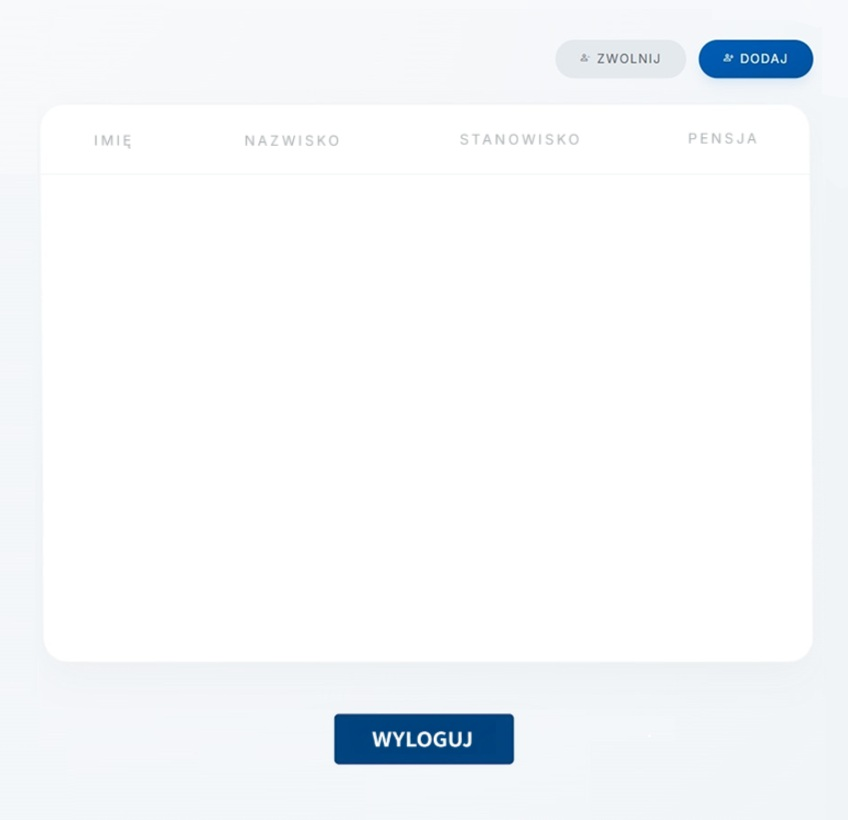
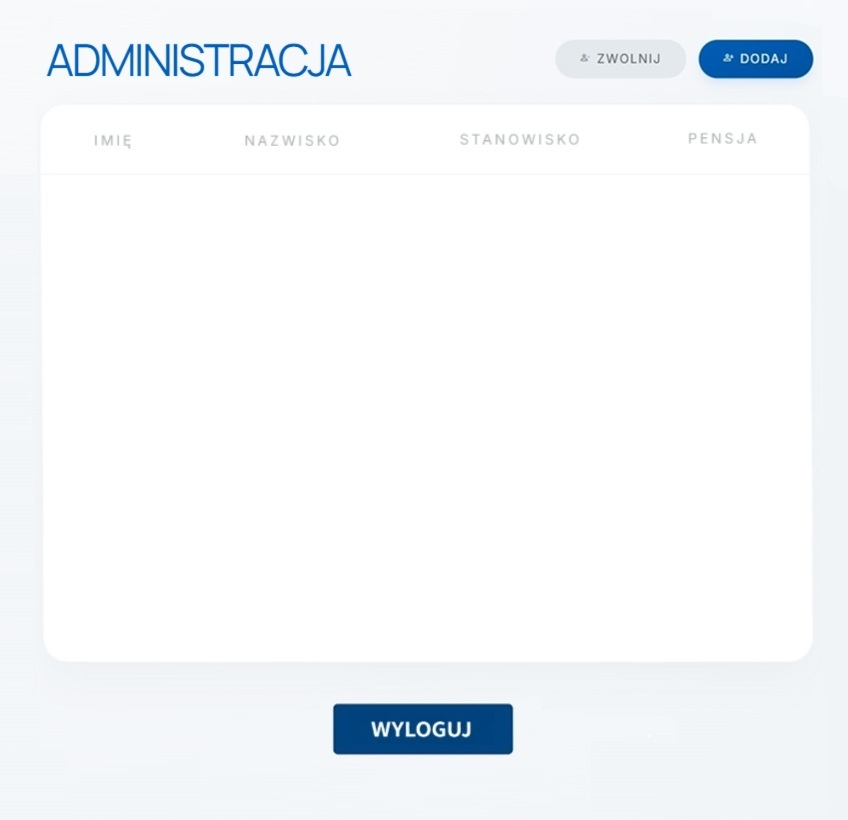
gui admina zrobione, zaczęte zapisywanie do pliku

Changed region(s): [[0.3679, 0.8537, 0.6132, 0.9451], [0.0613, 0.0305, 0.4292, 0.0915]]

diff --git a/src/GUI/AdminWindow.java b/src/GUI/AdminWindow.java
@@ -5,7 +5,7 @@ import java.awt.*;
 
 public class AdminWindow extends JFrame {
 
-    public AdminWindow(){
+    public AdminWindow(LoginWindow login){
         setTitle("Panel Admina");
         setSize(800,820);
         setLayout(null);
@@ -24,8 +24,17 @@ public class AdminWindow extends JFrame {
         );
 
         ImageIcon scaledTlo = new ImageIcon(img);
+        ImageIcon wyloguj = new ImageIcon(getClass().getResource("/resources/wylogujniebieski.jpg"));
+        ImageIcon dodaj = new ImageIcon(getClass().getResource("/resources/dodajblady.jpg"));
+        ImageIcon usun = new ImageIcon(getClass().getResource("/resources/usunblady.jpg"));
+
+
 
         JLabel background = new JLabel(scaledTlo);
+        JLabel wylogujButton= new JLabel(wyloguj);
+        JLabel dodajButton = new JLabel(dodaj);
+        JLabel usunButton = new JLabel(usun);
+
         background.setBounds(-30,0,848,820);
         background.setLayout(null);
         background.setVisible(true);
@@ -36,6 +45,52 @@ public class AdminWindow extends JFrame {
                 System.out.println("X: " + e.getX() + " Y: " + e.getY());
             }
         });
+
+
+
+
+
+        JButton usunPrzycisk = SendPackWindow.createButton(550,40,120,40,"");
+        SendPackWindow.mouseListenerIMG(usunPrzycisk, usunButton);
+        background.add(usunPrzycisk);
+        SendPackWindow.placeBlady(537,29,140,60,usunButton);
+        usunPrzycisk.addMouseListener(new java.awt.event.MouseAdapter() {
+            public void mouseClicked(java.awt.event.MouseEvent e) {
+                System.out.println("kliknieto usun");
+
+            }
+        });
+        background.add(usunButton);
+
+
+
+        JButton przycisk2 = SendPackWindow.createButton(338,704,168,52,"");
+        SendPackWindow.mouseListenerIMG(przycisk2, wylogujButton);
+        background.add(przycisk2);
+        SendPackWindow.placeBlady(339,704,168,50,wylogujButton);
+        przycisk2.addMouseListener(new java.awt.event.MouseAdapter() {
+            public void mouseClicked(java.awt.event.MouseEvent e) {
+
+            setVisible(false);
+            login.setVisible(true);
+            }
+        });
+        background.add(wylogujButton);
+
+
+
+
+
+        JButton dodajPrzycisk = SendPackWindow.createButton(682,40,104,40,"");
+        SendPackWindow.mouseListenerIMG(dodajPrzycisk, dodajButton);
+        background.add(dodajPrzycisk);
+        SendPackWindow.placeBlady(680,37,115,52,dodajButton);
+        dodajPrzycisk.addMouseListener(new java.awt.event.MouseAdapter() {
+            public void mouseClicked(java.awt.event.MouseEvent e) {
+
+            }
+        });
+        background.add(dodajButton);
 
     }
 }

diff --git a/src/service/UserService.java b/src/service/UserService.java
@@ -4,17 +4,71 @@ import GUI.LoginWindow;
 import GUI.MenuWindow;
 import model.User;
 
+
 import javax.swing.*;
+import java.io.File;
+import java.io.PrintWriter;
 import java.util.ArrayList;
 import java.util.Scanner;
 
+
 public class UserService {
+
     ArrayList<User> users = new ArrayList<>();
     User user = new User("admin", "admin", 1);
+
     int nextID = 2;
+
     Scanner sc = new Scanner(System.in);
 
+public void saveUsersToFile()
+{
+    try (PrintWriter writer = new PrintWriter("src/resources/users.txt")) {
 
+        for(User user : users) {
+
+            writer.println(
+                    user.login + ";" +
+                            user.haslo + ";" +
+                            user.id
+            );
+
+        }
+
+    } catch (Exception e) {
+
+        e.printStackTrace();
+
+    }
+
+}
+
+public void loadUsersFromFile()
+{
+    try (Scanner fileScanner = new Scanner(new File("src/resources/users.txt"))) {
+
+        while(fileScanner.hasNextLine()) {
+
+            String line = fileScanner.nextLine();
+
+            String[] data = line.split(";");
+
+            String login = data[0];
+            String haslo = data[1];
+            int id = Integer.parseInt(data[2]);
+
+            users.add(
+                    new User(login, haslo, id)
+            );
+
+        }
+
+    } catch (Exception e) {
+
+        e.printStackTrace();
+
+    }
+}
 
    public void register(String loginn, String hasloo) {
         String login = loginn;
@@ -29,6 +83,7 @@ public class UserService {
        {
            User user = new User(login, haslo, nextID++);
            users.add(user);
+           saveUsersToFile();
            System.out.println("Zarejestrowano użytkownika z ID: " + user.id);
            JOptionPane.showMessageDialog(null,"Zarejestrowano użytkownika o loginie: "+ user.login,"",JOptionPane.INFORMATION_MESSAGE );
        }
@@ -166,5 +221,9 @@ public class UserService {
         return zalogowano;
 
 
+
     }
+
+
+
 }

diff --git a/src/Main.java b/src/Main.java
@@ -5,7 +5,7 @@ import java.util.Scanner;
 public class Main {
     //stałe
     static Scanner sc = new Scanner(System.in);
-    static UserService uS= new UserService();
+
     //Funkcje
 
 
@@ -13,9 +13,10 @@ public class Main {
 
     public static void main(String[] args) {
 
-
-//LoginWindow okno = new LoginWindow();
-//okno.setVisible(true);
+        UserService uS= new UserService();
+        uS.loadUsersFromFile();
+LoginWindow okno = new LoginWindow();
+okno.setVisible(true);
 //menuWindow menu = new MenuWindow();
 //menu.setVisible(true);
 //FollowPackWindow follow = new FollowPackWindow();
@@ -24,8 +25,8 @@ public class Main {
         //PackHistory paczka =new PackHistory(MenuWindow menu);
         //paczka.setVisible(true);
 
-        AdminWindow admin = new AdminWindow();
-        admin.setVisible(true);
+        //AdminWindow admin = new AdminWindow();
+      //  admin.setVisible(true);
 
 
     }}
